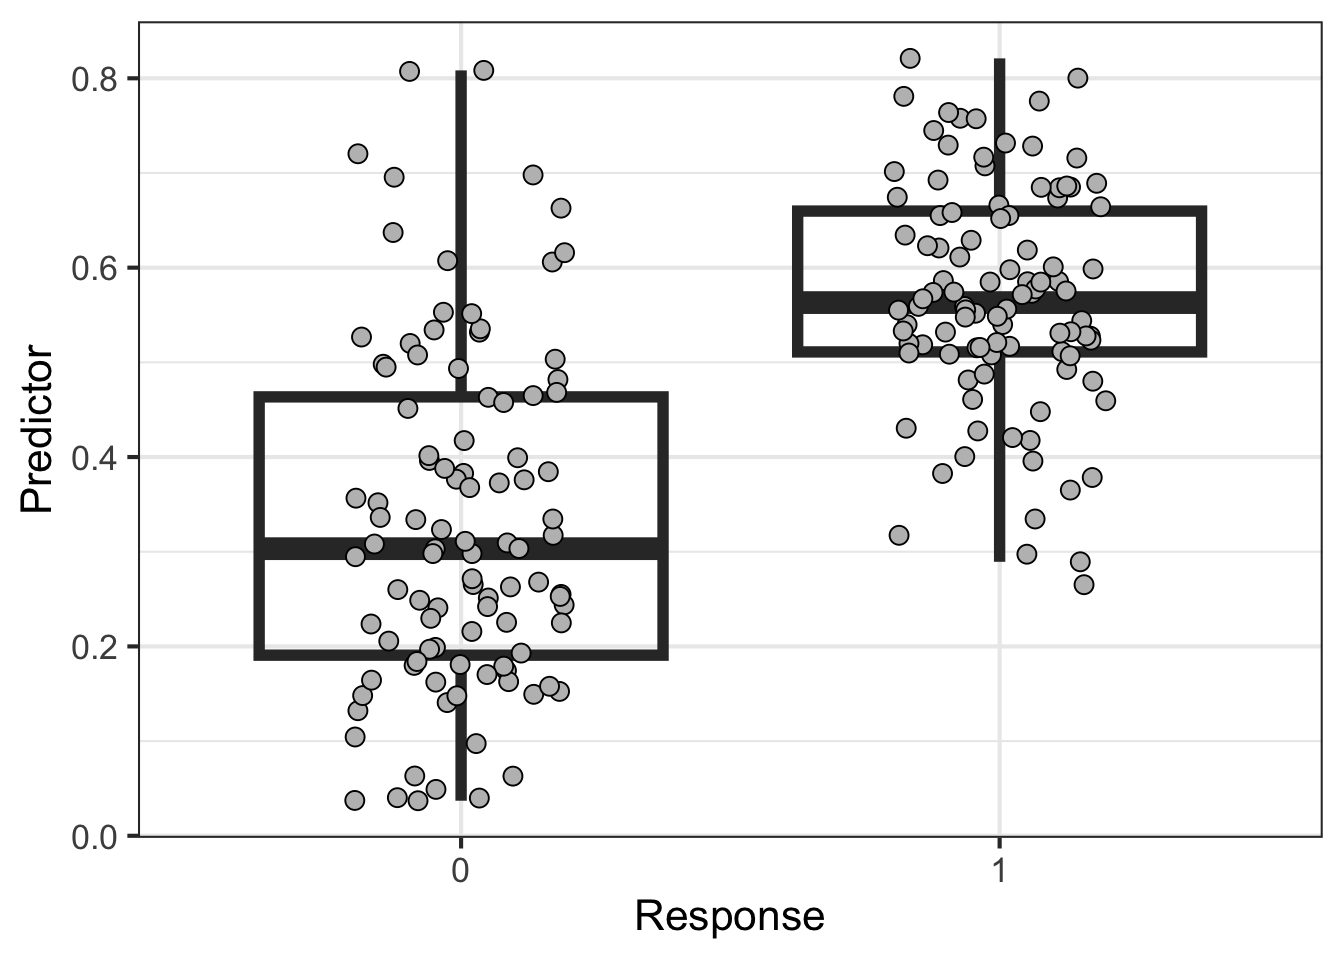
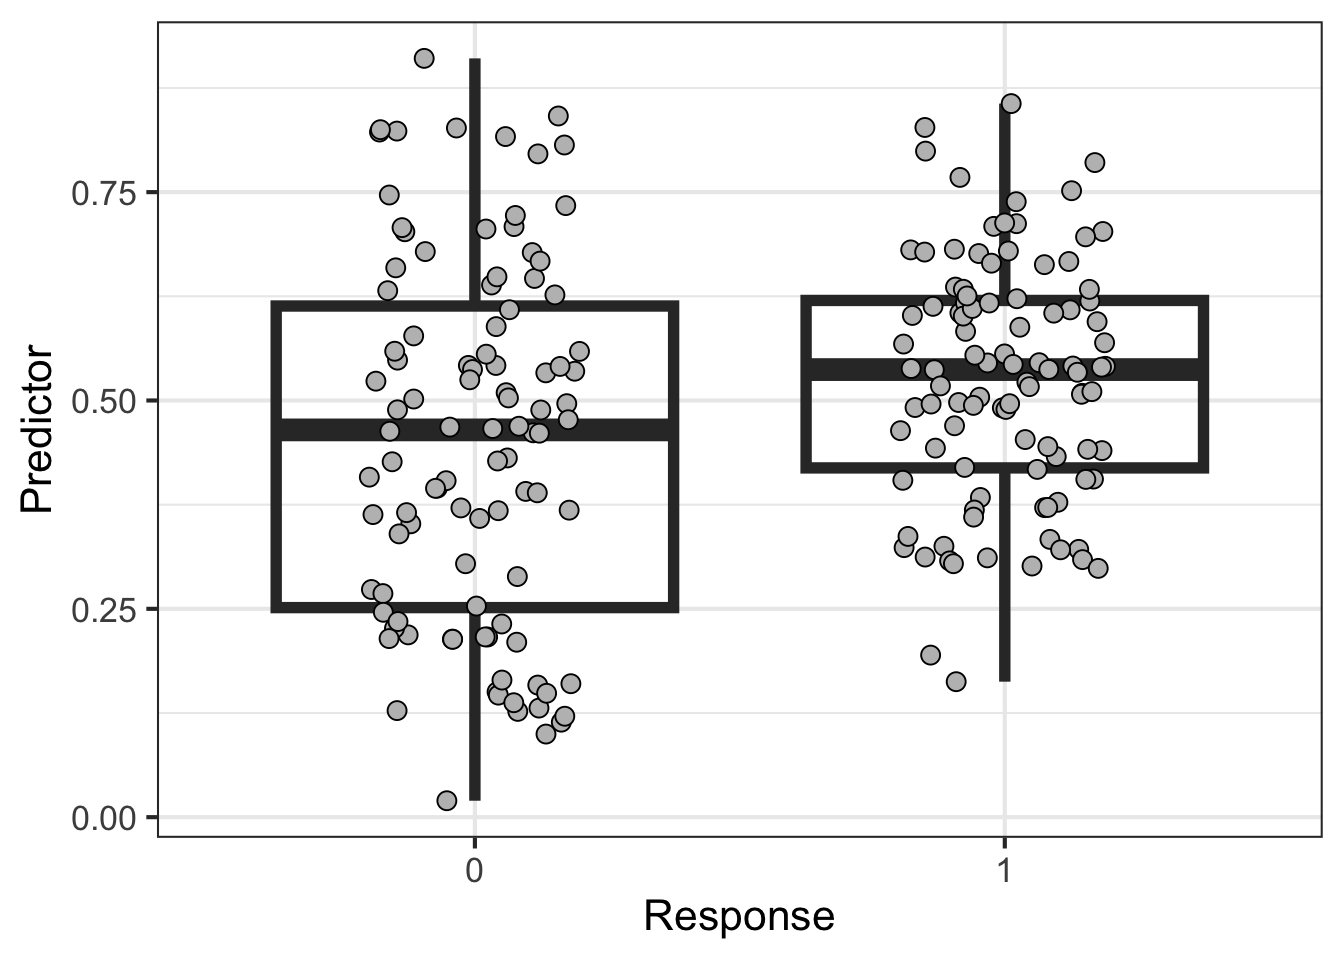
article revision

diff --git a/docs/mccv_power.html b/docs/mccv_power.html
@@ -195,22 +195,25 @@ code span.wa { color: #60a0b0; font-weight: bold; font-style: italic; } /* Warni
 
 </header>
 
-<p>A question of interest often is at what sample size can I detect an effect? MCCV can estimate the power to detect an effect by learning from data at different sample sizes. For example, I may reach a large effect or performance, say 0.8 AUROC, using all subjects. However, can I still reach or get close to 0.8 AUROC at a smaller sample size, say 50% of subjects? This article will show an interactive example of how learning from varying sample sizes yields effects reaching the effect using all the data.</p>
-<div class="cell" data-hash="mccv_power_cache/html/unnamed-chunk-1_77680a86922b8429eba902f0ab955b60">
+<p>Often, a question of interest is at what sample size (used in training a model) can I detect an effect? Furthermore, is the effect I’m detecting a robust signal? MCCV can estimate the power to detect an effect or robust signal by learning from data at different sizes of a sample. For example, a large effect or performance, say 0.8 AUROC, may be reached using all data available in the sample. However, can I still reach 0.8 AUROC at a smaller sample size? Also, is the detected signal robust to the size of the sample used in training the model? This article will show how learning from varying sample sizes may or may not show robust signal aka detection of an effect representative of the data generating process.</p>
+<p>This first example defines two classes of data (class 1 and class 2) with a predictor drawn from very similar distributions. I expect robust signal (i.e.&nbsp;AUROC) to be detected as the proportion of samples increases:</p>
+<div class="cell" data-hash="mccv_power_cache/html/unnamed-chunk-1_0f58c2972ae3fd8a604471cdccebff7f">
 <details>
 <summary>Show The Code</summary>
 <div class="sourceCode cell-code" id="cb1"><pre class="sourceCode python code-with-copy"><code class="sourceCode python"><span id="cb1-1"><a href="#cb1-1" aria-hidden="true" tabindex="-1"></a><span class="im">import</span> numpy <span class="im">as</span> np</span>
 <span id="cb1-2"><a href="#cb1-2" aria-hidden="true" tabindex="-1"></a>N<span class="op">=</span><span class="dv">100</span></span>
-<span id="cb1-3"><a href="#cb1-3" aria-hidden="true" tabindex="-1"></a>Z1 <span class="op">=</span> np.random.beta(<span class="fl">2.5</span>,<span class="fl">3.5</span>,size<span class="op">=</span>N)</span>
-<span id="cb1-4"><a href="#cb1-4" aria-hidden="true" tabindex="-1"></a>Z2 <span class="op">=</span> np.random.beta(<span class="fl">3.5</span>,<span class="fl">2.5</span>,size<span class="op">=</span>N)</span>
-<span id="cb1-5"><a href="#cb1-5" aria-hidden="true" tabindex="-1"></a>Z <span class="op">=</span> np.concatenate([Z1,Z2])</span>
-<span id="cb1-6"><a href="#cb1-6" aria-hidden="true" tabindex="-1"></a></span>
-<span id="cb1-7"><a href="#cb1-7" aria-hidden="true" tabindex="-1"></a><span class="im">import</span> scipy <span class="im">as</span> sc</span>
-<span id="cb1-8"><a href="#cb1-8" aria-hidden="true" tabindex="-1"></a>Y <span class="op">=</span> np.concatenate([np.repeat(<span class="dv">0</span>,N),np.repeat(<span class="dv">1</span>,N)])</span>
-<span id="cb1-9"><a href="#cb1-9" aria-hidden="true" tabindex="-1"></a></span>
-<span id="cb1-10"><a href="#cb1-10" aria-hidden="true" tabindex="-1"></a><span class="im">import</span> pandas <span class="im">as</span> pd</span>
-<span id="cb1-11"><a href="#cb1-11" aria-hidden="true" tabindex="-1"></a>df <span class="op">=</span> pd.DataFrame(data<span class="op">=</span>{<span class="st">'Y'</span> : Y,<span class="st">'Z'</span> : Z})</span>
-<span id="cb1-12"><a href="#cb1-12" aria-hidden="true" tabindex="-1"></a>df.index.name <span class="op">=</span> <span class="st">'pt'</span></span></code><button title="Copy to Clipboard" class="code-copy-button"><i class="bi"></i></button></pre></div>
+<span id="cb1-3"><a href="#cb1-3" aria-hidden="true" tabindex="-1"></a>np.random.seed(<span class="dv">0</span>)</span>
+<span id="cb1-4"><a href="#cb1-4" aria-hidden="true" tabindex="-1"></a>Z1 <span class="op">=</span> np.random.beta(<span class="dv">2</span>,<span class="dv">3</span>,size<span class="op">=</span>N,)</span>
+<span id="cb1-5"><a href="#cb1-5" aria-hidden="true" tabindex="-1"></a>np.random.seed(<span class="dv">0</span>)</span>
+<span id="cb1-6"><a href="#cb1-6" aria-hidden="true" tabindex="-1"></a>Z2 <span class="op">=</span> np.random.beta(<span class="dv">2</span>,<span class="fl">2.5</span>,size<span class="op">=</span>N)</span>
+<span id="cb1-7"><a href="#cb1-7" aria-hidden="true" tabindex="-1"></a>Z <span class="op">=</span> np.concatenate([Z1,Z2])</span>
+<span id="cb1-8"><a href="#cb1-8" aria-hidden="true" tabindex="-1"></a></span>
+<span id="cb1-9"><a href="#cb1-9" aria-hidden="true" tabindex="-1"></a><span class="im">import</span> scipy <span class="im">as</span> sc</span>
+<span id="cb1-10"><a href="#cb1-10" aria-hidden="true" tabindex="-1"></a>Y <span class="op">=</span> np.concatenate([np.repeat(<span class="dv">0</span>,N),np.repeat(<span class="dv">1</span>,N)])</span>
+<span id="cb1-11"><a href="#cb1-11" aria-hidden="true" tabindex="-1"></a></span>
+<span id="cb1-12"><a href="#cb1-12" aria-hidden="true" tabindex="-1"></a><span class="im">import</span> pandas <span class="im">as</span> pd</span>
+<span id="cb1-13"><a href="#cb1-13" aria-hidden="true" tabindex="-1"></a>df <span class="op">=</span> pd.DataFrame(data<span class="op">=</span>{<span class="st">'Y'</span> : Y,<span class="st">'Z'</span> : Z})</span>
+<span id="cb1-14"><a href="#cb1-14" aria-hidden="true" tabindex="-1"></a>df.index.name <span class="op">=</span> <span class="st">'pt'</span></span></code><button title="Copy to Clipboard" class="code-copy-button"><i class="bi"></i></button></pre></div>
 </details>
 </div>
 <div class="cell" data-hash="mccv_power_cache/html/unnamed-chunk-2_9db30d81c6f05f07d3449c891ff84da5">
@@ -274,22 +277,24 @@ code span.wa { color: #60a0b0; font-weight: bold; font-style: italic; } /* Warni
 <p><img src="mccv_power_files/figure-html/unnamed-chunk-4-1.png" class="img-fluid" width="672"></p>
 </div>
 </div>
-<p>The below is an example where the AUROC vriability actually shows a decreased overall performance:</p>
-<div class="cell" data-hash="mccv_power_cache/html/unnamed-chunk-5_447e1dfc489bcc365fa75e0f90ccd141">
+<p>The second example, instead, defines two classes of data drawn from two different distributions. I would expect non-robust signal detected as the sample size for training is increased.</p>
+<div class="cell" data-hash="mccv_power_cache/html/unnamed-chunk-5_f3c52c873424b1d4ca99f6a9c144efd8">
 <details>
 <summary>Show The Code</summary>
 <div class="sourceCode cell-code" id="cb5"><pre class="sourceCode python code-with-copy"><code class="sourceCode python"><span id="cb5-1"><a href="#cb5-1" aria-hidden="true" tabindex="-1"></a><span class="im">import</span> numpy <span class="im">as</span> np</span>
 <span id="cb5-2"><a href="#cb5-2" aria-hidden="true" tabindex="-1"></a>N<span class="op">=</span><span class="dv">100</span></span>
-<span id="cb5-3"><a href="#cb5-3" aria-hidden="true" tabindex="-1"></a>Z1 <span class="op">=</span> np.random.beta(<span class="dv">2</span>,<span class="dv">4</span>,size<span class="op">=</span>N)</span>
-<span id="cb5-4"><a href="#cb5-4" aria-hidden="true" tabindex="-1"></a>Z2 <span class="op">=</span> np.random.beta(<span class="dv">8</span>,<span class="dv">6</span>,size<span class="op">=</span>N)</span>
-<span id="cb5-5"><a href="#cb5-5" aria-hidden="true" tabindex="-1"></a>Z <span class="op">=</span> np.concatenate([Z1,Z2])</span>
-<span id="cb5-6"><a href="#cb5-6" aria-hidden="true" tabindex="-1"></a></span>
-<span id="cb5-7"><a href="#cb5-7" aria-hidden="true" tabindex="-1"></a><span class="im">import</span> scipy <span class="im">as</span> sc</span>
-<span id="cb5-8"><a href="#cb5-8" aria-hidden="true" tabindex="-1"></a>Y <span class="op">=</span> np.concatenate([np.repeat(<span class="dv">0</span>,N),np.repeat(<span class="dv">1</span>,N)])</span>
-<span id="cb5-9"><a href="#cb5-9" aria-hidden="true" tabindex="-1"></a></span>
-<span id="cb5-10"><a href="#cb5-10" aria-hidden="true" tabindex="-1"></a><span class="im">import</span> pandas <span class="im">as</span> pd</span>
-<span id="cb5-11"><a href="#cb5-11" aria-hidden="true" tabindex="-1"></a>df <span class="op">=</span> pd.DataFrame(data<span class="op">=</span>{<span class="st">'Y'</span> : Y,<span class="st">'Z'</span> : Z})</span>
-<span id="cb5-12"><a href="#cb5-12" aria-hidden="true" tabindex="-1"></a>df.index.name <span class="op">=</span> <span class="st">'pt'</span></span></code><button title="Copy to Clipboard" class="code-copy-button"><i class="bi"></i></button></pre></div>
+<span id="cb5-3"><a href="#cb5-3" aria-hidden="true" tabindex="-1"></a>np.random.seed(<span class="dv">0</span>)</span>
+<span id="cb5-4"><a href="#cb5-4" aria-hidden="true" tabindex="-1"></a>Z1 <span class="op">=</span> np.random.beta(<span class="dv">2</span>,<span class="fl">2.5</span>,size<span class="op">=</span>N)</span>
+<span id="cb5-5"><a href="#cb5-5" aria-hidden="true" tabindex="-1"></a>np.random.seed(<span class="dv">0</span>)</span>
+<span id="cb5-6"><a href="#cb5-6" aria-hidden="true" tabindex="-1"></a>Z2 <span class="op">=</span> np.random.beta(<span class="dv">6</span>,<span class="dv">5</span>,size<span class="op">=</span>N)</span>
+<span id="cb5-7"><a href="#cb5-7" aria-hidden="true" tabindex="-1"></a>Z <span class="op">=</span> np.concatenate([Z1,Z2])</span>
+<span id="cb5-8"><a href="#cb5-8" aria-hidden="true" tabindex="-1"></a></span>
+<span id="cb5-9"><a href="#cb5-9" aria-hidden="true" tabindex="-1"></a><span class="im">import</span> scipy <span class="im">as</span> sc</span>
+<span id="cb5-10"><a href="#cb5-10" aria-hidden="true" tabindex="-1"></a>Y <span class="op">=</span> np.concatenate([np.repeat(<span class="dv">0</span>,N),np.repeat(<span class="dv">1</span>,N)])</span>
+<span id="cb5-11"><a href="#cb5-11" aria-hidden="true" tabindex="-1"></a></span>
+<span id="cb5-12"><a href="#cb5-12" aria-hidden="true" tabindex="-1"></a><span class="im">import</span> pandas <span class="im">as</span> pd</span>
+<span id="cb5-13"><a href="#cb5-13" aria-hidden="true" tabindex="-1"></a>df <span class="op">=</span> pd.DataFrame(data<span class="op">=</span>{<span class="st">'Y'</span> : Y,<span class="st">'Z'</span> : Z})</span>
+<span id="cb5-14"><a href="#cb5-14" aria-hidden="true" tabindex="-1"></a>df.index.name <span class="op">=</span> <span class="st">'pt'</span></span></code><button title="Copy to Clipboard" class="code-copy-button"><i class="bi"></i></button></pre></div>
 </details>
 </div>
 <div class="cell" data-hash="mccv_power_cache/html/unnamed-chunk-6_0da1af78aa269dd30dca1e731d1b7eeb">
@@ -353,6 +358,12 @@ code span.wa { color: #60a0b0; font-weight: bold; font-style: italic; } /* Warni
 <p><img src="mccv_power_files/figure-html/unnamed-chunk-8-1.png" class="img-fluid" width="672"></p>
 </div>
 </div>
+<p>In short, my thinking is the data generating process is captured in a sample only if a robust signal is found. A robust signal can be represented by a linear, average increase in AUROC performance as sample size using for training increases. Otherwise, the signal-to-noise ratio is lower than what would be needed to make generalizable predictions from the specified model and data. In this last example, the evidence is unclear as expected whether the two classes of data are generated by the same process. I say this for two reasons:</p>
+<ol type="1">
+<li>There is stagnant performance between using 30% and 80% of the sample size for training</li>
+<li>There is a stark difference between using 20% and 90% of the sample size for training. I would expect there to be more overlap compared to complete non-overlap.</li>
+</ol>
+<p>Feel free to comment on the post for a discussion on my thinking - would love to discuss this!</p>
 
 
 
